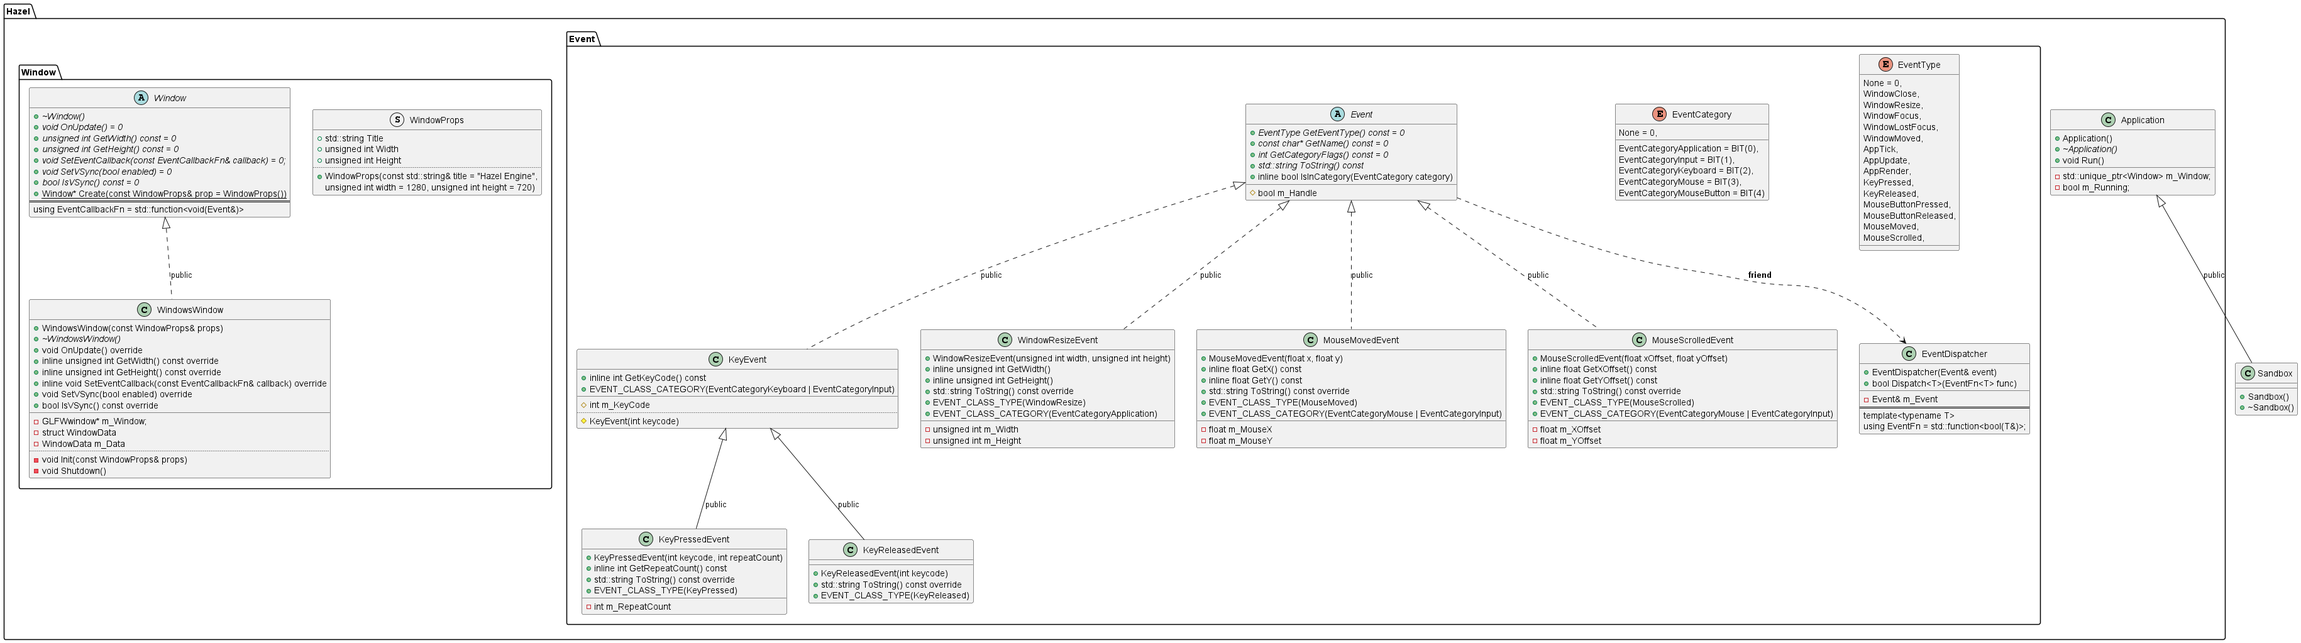
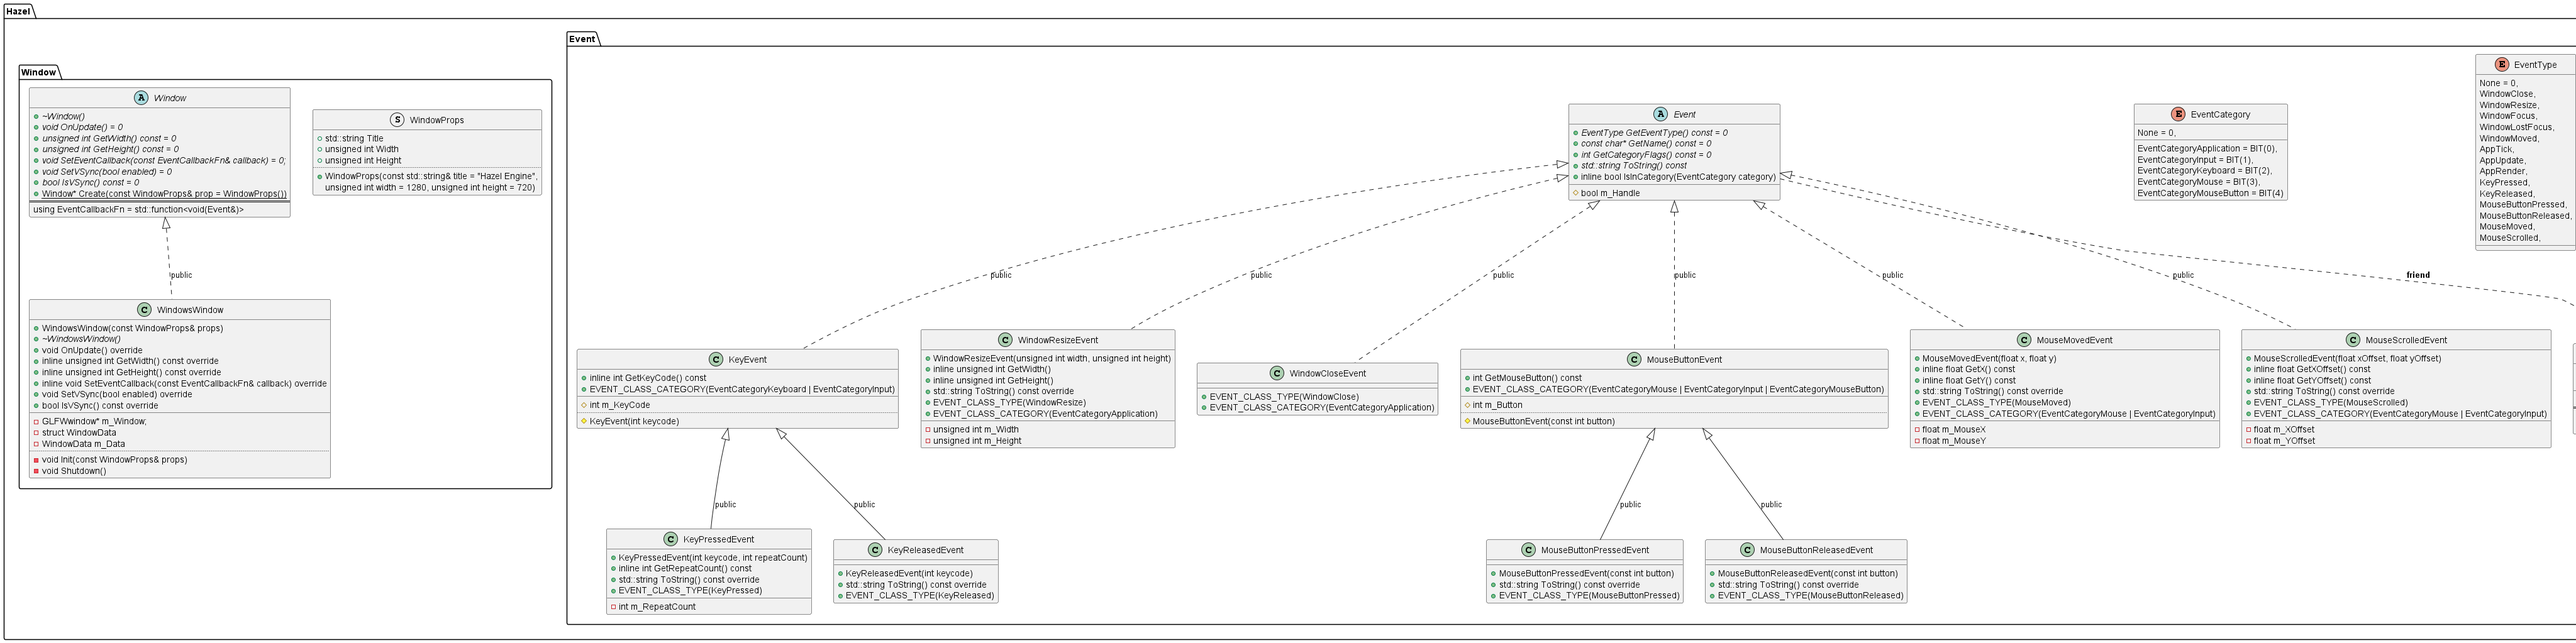
refactor(event): 纠正部分事件错误写法
- 移除多余 HAZEL_API 声明
- MouseButtonReleasedEvent 错误修复
- 更新 UML 图，添加新事件类和继承关系

diff --git a/Cherno_Hazel/src/Hazel/Events/MouseEvent.h b/Cherno_Hazel/src/Hazel/Events/MouseEvent.h
@@ -30,25 +30,20 @@ namespace Hazel {
 		EVENT_CLASS_TYPE(MouseButtonPressed)
 	};
 
-	class HAZEL_API MouseButtonReleasedEvent : public MouseButtonEvent {
+	class MouseButtonReleasedEvent : public MouseButtonEvent {
 	public:
 		MouseButtonReleasedEvent(const int button) : MouseButtonEvent(button) {}
 
-		inline int GetButtonCode() const { return m_ButtonCode; }
-
 		std::string ToString() const override {
 			std::stringstream ss;
-			ss << "MouseButtonReleasedEvent: " << m_ButtonCode;
+			ss << "MouseButtonReleasedEvent: " << m_Button;
 			return ss.str();
 		}
 
 		EVENT_CLASS_TYPE(MouseButtonReleased)
-		EVENT_CLASS_CATEGORY(EventCategoryMouse | EventCategoryInput)
-	private:
-		int m_ButtonCode;
 	};
 
-	class HAZEL_API MouseMovedEvent : public Event {
+	class MouseMovedEvent : public Event {
 	public:
 		MouseMovedEvent(float x, float y)
 			: m_MouseX(x), m_MouseY(y) {}
@@ -68,7 +63,7 @@ namespace Hazel {
 		float m_MouseX, m_MouseY;
 	};
 
-	class HAZEL_API MouseScrolledEvent : public Event {
+	class MouseScrolledEvent : public Event {
 	public:
 		MouseScrolledEvent(float xOffset, float yOffset)
 			: m_XOffset(xOffset), m_YOffset(yOffset) {}

diff --git a/Cherno_Hazel/src/Hazel/Events/KeyEvent.h b/Cherno_Hazel/src/Hazel/Events/KeyEvent.h
@@ -4,7 +4,7 @@
 
 namespace Hazel {
 
-    class HAZEL_API KeyEvent : public Event {
+    class KeyEvent : public Event {
     public:
         inline int GetKeyCode() const { return m_KeyCode; }
 
@@ -15,7 +15,7 @@ namespace Hazel {
         int m_KeyCode;
     };
 
-    class HAZEL_API KeyPressedEvent : public KeyEvent {
+    class KeyPressedEvent : public KeyEvent {
     public:
         KeyPressedEvent(int keycode, int repeatCount) : KeyEvent(keycode), m_RepeatCount(repeatCount) {}
 
@@ -32,7 +32,7 @@ namespace Hazel {
         int m_RepeatCount;
     };
 
-    class HAZEL_API KeyReleasedEvent : public KeyEvent {
+    class KeyReleasedEvent : public KeyEvent {
     public:
         KeyReleasedEvent(int keycode) : KeyEvent(keycode) {}
 

diff --git a/Cherno_Hazel/src/Hazel/Events/ApplicationEvent.h b/Cherno_Hazel/src/Hazel/Events/ApplicationEvent.h
@@ -4,7 +4,7 @@
 
 namespace Hazel {
 	
-	class HAZEL_API WindowResizeEvent : public Event {
+	class WindowResizeEvent : public Event {
 	public:
 		WindowResizeEvent(unsigned int width, unsigned int height)
 			: m_Width(width), m_Height(height) {}
@@ -24,7 +24,7 @@ namespace Hazel {
 		unsigned int m_Width, m_Height;
 	};
 
-	class HAZEL_API WindowCloseEvent : public Event {
+	class WindowCloseEvent : public Event {
 	public:
 		EVENT_CLASS_TYPE(WindowClose)
 		EVENT_CLASS_CATEGORY(EventCategoryApplication)
